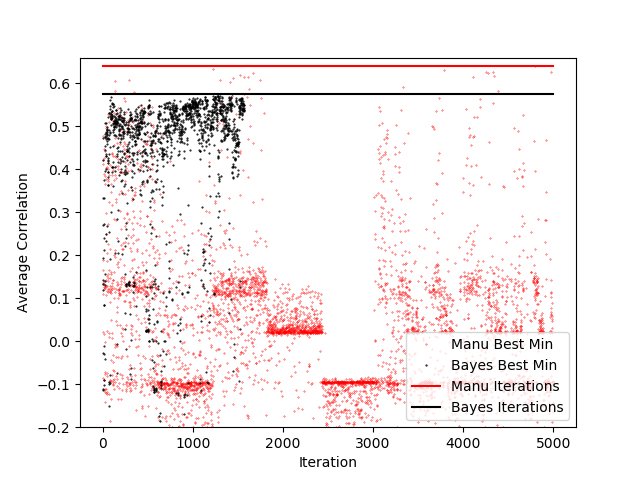
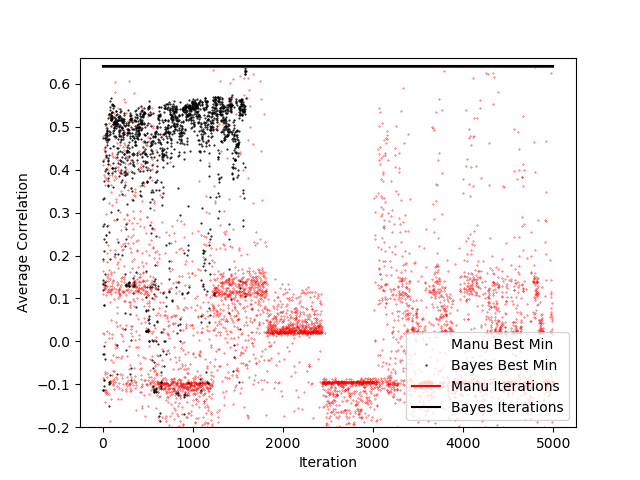
now flex bash for mean and min, and all experiments run!

diff --git a/per_script_optimization/db_fig_7_changed.py b/per_script_optimization/db_fig_7_changed.py
@@ -9,7 +9,10 @@ from ops.model_utils import iround
 from ops.parameter_defaults import PaperDefaults
 from ops.dumb_daemon_f7_hp_optim import optimize_model, create_stimuli
 import ops.model_cutils as cutils
+from sklearn.linear_model import RidgeCV
+from sklearn.preprocessing import StandardScaler
 
+reg_path = '/media/data_cifs/contextual_circuit/hmax_versions/dmely_hmax/models/ucircuits/contextual/working/ShevellMonnier2003.reg.pkl.std.srf3ssn9ssf29'
 
 def run(make_stims=False):
     defaults = PaperDefaults()
@@ -73,19 +76,38 @@ def run(make_stims=False):
     gt = np.vstack((shift_phase_paper,shift_anti_paper))
 
     #Also preload regs for postprocessing
-    regpath = os.path.join(defaults._WORKDIR,\
-        'ShevellMonnier2003.reg.pkl.std.srf%issn%issf%i' \
-            % (defaults._DEFAULT_PARAMETERS['srf'], defaults._DEFAULT_PARAMETERS['ssn'], defaults._DEFAULT_PARAMETERS['ssf']))
+    # regpath = os.path.join( #defaults._WORKDIR,\
+    #     'working\ShevellMonnier2003.reg.pkl.std.srf%issn%issf%i' \
+    #         % (defaults._DEFAULT_PARAMETERS['srf'], defaults._DEFAULT_PARAMETERS['ssn'], defaults._DEFAULT_PARAMETERS['ssf']))
+    joblib_stuff = {'reg_X_SX': RidgeCV(alphas=(0.1, 1.0, 10.0), cv=None, fit_intercept=True, gcv_mode=None, normalize=False, scoring=None, store_cv_values=False),
+                    'reg_Z_SX': RidgeCV(alphas=(0.1, 1.0, 10.0), cv=None, fit_intercept=True, gcv_mode=None, normalize=False, scoring=None, store_cv_values=False),
+                     'reg_Y_SO': RidgeCV(alphas=(0.1, 1.0, 10.0), cv=None, fit_intercept=True, gcv_mode=None, normalize=False, scoring=None, store_cv_values=False),
+                     'scaler_SO': StandardScaler(copy=True, with_mean=True, with_std=True),
+                     'reg_X_SO': RidgeCV(alphas=(0.1, 1.0, 10.0), cv=None, fit_intercept=True, gcv_mode=None,normalize=False, scoring=None, store_cv_values=False),
+                     'scaler_SX': StandardScaler(copy=True, with_mean=True, with_std=True),
+                     'reg_Y_SX': RidgeCV(alphas=(0.1, 1.0, 10.0), cv=None, fit_intercept=True, gcv_mode=None,normalize=False, scoring=None, store_cv_values=False),
+                     'reg_Z_SO': RidgeCV(alphas=(0.1, 1.0, 10.0), cv=None, fit_intercept=True, gcv_mode=None,normalize=False, scoring=None, store_cv_values=False)}
 
-    reg_X_SO = joblib.load(regpath)['reg_X_SO']
-    reg_Y_SO = joblib.load(regpath)['reg_Y_SO']
-    reg_Z_SO = joblib.load(regpath)['reg_Z_SO']
-    scaler_SO = joblib.load(regpath)['scaler_SO']
+    reg_X_SO = joblib_stuff['reg_X_SO']
+    reg_Y_SO = joblib_stuff['reg_Y_SO']
+    reg_Z_SO = joblib_stuff['reg_Z_SO']
+    scaler_SO = joblib_stuff['scaler_SO']
 
-    reg_X_SX = joblib.load(regpath)['reg_X_SX']
-    reg_Y_SX = joblib.load(regpath)['reg_Y_SX']
-    reg_Z_SX = joblib.load(regpath)['reg_Z_SX']
-    scaler_SX = joblib.load(regpath)['scaler_SX']
+    reg_X_SX = joblib_stuff['reg_X_SX']
+    reg_Y_SX = joblib_stuff['reg_Y_SX']
+    reg_Z_SX = joblib_stuff['reg_Z_SX']
+    scaler_SX = joblib_stuff['scaler_SX']
+
+    # import ipdb; ipdb.set_trace()
+    # reg_X_SO = joblib.load(regpath)['reg_X_SO']
+    # reg_Y_SO = joblib.load(regpath)['reg_Y_SO']
+    # reg_Z_SO = joblib.load(regpath)['reg_Z_SO']
+    # scaler_SO = joblib.load(regpath)['scaler_SO']
+    #
+    # reg_X_SX = joblib.load(regpath)['reg_X_SX']
+    # reg_Y_SX = joblib.load(regpath)['reg_Y_SX']
+    # reg_Z_SX = joblib.load(regpath)['reg_Z_SX']
+    # scaler_SX = joblib.load(regpath)['scaler_SX']
 
     so2image = cutils.get_XYZ2RGB_predictor(reg_X_SO, reg_Y_SO, reg_Z_SO, scaler_SO)
     sx2image = cutils.get_XYZ2RGB_predictor(reg_X_SX, reg_Y_SX, reg_Z_SX, scaler_SX)

diff --git a/ops/dumb_daemon_f7_hp_optim.py b/ops/dumb_daemon_f7_hp_optim.py
@@ -13,11 +13,11 @@ from skimage.color import rgb2xyz
 from ops.db_utils import update_data, get_lesion_rows_from_db, count_sets
 from ops.parameter_defaults import PaperDefaults
 
-
 defaults = PaperDefaults().__dict__
 CIECAM02_CAT = sp.array([[ 0.7328,  0.4296, -0.1624],
                          [-0.7036,  1.6975,  0.0061],
                          [ 0.003 ,  0.0136,  0.9834]])
+max_its = int(sys.argv[2])
 
 def adjust_parameters(defaults,hps):
     hps_keys = hps.keys()
@@ -78,9 +78,9 @@ def printProgress(iteration, total, prefix = '', suffix = '', decimals = 1, bar_
 
 
 def compute_shifts(x, sess, ctx, extra_vars, default_parameters):
-    start = timer()
+    #start = timer()
     sess.run(tf.group(tf.global_variables_initializer(), tf.local_variables_initializer()))  # depreciated
-    # tf.group(tf.global_variables_initializer()) 
+    # tf.group(tf.global_variables_initializer())
     feed_dict = {ctx.X:x,
     #ctx.xi:default_parameters._DEFAULT_PARAMETERS['xi'].reshape(-1,1),
     ctx.alpha:default_parameters._DEFAULT_PARAMETERS['alpha'].reshape(-1,1),
@@ -102,9 +102,9 @@ def compute_shifts(x, sess, ctx, extra_vars, default_parameters):
         y = sess.run(ctx.out_I,feed_dict=feed_dict)
     elif extra_vars['return_var'] == 'O':
         y = sess.run(ctx.out_O,feed_dict=feed_dict)
-    end = timer()
-    run_time = end - start    
-    return y,run_time
+    #end = timer()
+    #run_time = end - start
+    return y#,run_time
 
 
 def prepare_hps(parameters,hp_set):
@@ -168,7 +168,8 @@ def optimize_model(gt,extra_vars,parameters):
             idx = 0; #keep a count
             #Initialize the session
             with tf.Session(config=tf.ConfigProto(allow_soft_placement = True)) as sess:
-                while 1: #while we have hp to run on this lesion
+                while idx < max_its: #while we have hp to run on this lesion
+                    start = timer()
                     hp_set = get_lesion_rows_from_db(lesion,extra_vars['figure_name'],get_one=True)
                     if hp_set is None:
                         break
@@ -187,7 +188,7 @@ def optimize_model(gt,extra_vars,parameters):
                                         ctx.run(x) #builds tf graph with shape of x
                                 build_graph = False
 
-                            y, run_time = compute_shifts(x=x, sess=sess, ctx=ctx, 
+                            y = compute_shifts(x=x, sess=sess, ctx=ctx,
                                  extra_vars=extra_vars, default_parameters=random_parameters)
 
                             phase,anti = model_utils.data_postprocessing(x,y,extra_vars)
@@ -200,9 +201,10 @@ def optimize_model(gt,extra_vars,parameters):
 
                         #Add to database
                         update_data(random_parameters,extra_vars['figure_name'],hp_set['_id'],it_score)
-                        printProgress(idx, num_sets, 
-                            prefix = extra_vars['figure_name'] + ' progress on lesion ' + lesion + ':', 
-                            suffix = 'Iteration time: ' + str(np.around(run_time,2)) + '; Correlation: ' + str(np.around(it_score,2)), 
+                        end = timer()
+                        printProgress(idx, num_sets,
+                            prefix = extra_vars['figure_name'] + ' progress on lesion ' + lesion + ':',
+                            suffix = 'Iteration time: ' + str(np.around(end-start,2)) + '; Correlation: ' + str(np.around(it_score,2)) + '\n',
                             bar_length = 30)
                     if parameters.gaussian_spatial or parameters.gaussian_channel:
                         break

diff --git a/start_opt_mean.py b/start_opt_mean.py
@@ -6,16 +6,16 @@ from ops.db_utils import add_row_to_db, gather_parameter_data, gather_perf_data
 import GPyOpt
 from timeit import default_timer as timer
 
-opt_samp = int(sys.argv[1])
-opt_type = sys.argv[2]
-opt_max = sys.argv[3]
+opt_samp = int(sys.argv[2])
+opt_type = sys.argv[3]
+opt_max = sys.argv[4]
 
 #Import default parameters
 defaults = PaperDefaults()
 
-def gpy_wrapper(X,Y,domain):
-    opt_me = GPyOpt.methods.BayesianOptimization(f = None, X = X, Y = Y, domain = domain, evaluator_type = 'local_penalization')
-    next_samp = opt_me.suggested_sample[0].tolist()
+def gpy_wrapper(X,Y,domain,samps):
+    opt_me = GPyOpt.methods.BayesianOptimization(f = None, X = X, Y = Y, domain = domain, evaluator_type = 'local_penalization', batch_size = samps, num_cores = samps)
+    next_samp = opt_me.suggested_sample
     return next_samp
 
 # Collect history from DB
@@ -34,14 +34,19 @@ if flat_perf[-1] <= np.min(flat_perf):
 #Generate the next sample
 start = timer()
 if opt_type == 'gpyopt':
-    next_samp = gpy_wrapper(hist,perf,defaults._DEFAULT_DOMAINS)
+    next_samp = gpy_wrapper(hist,perf,defaults._DEFAULT_DOMAINS,opt_samp)
 else:
     print 'Not implemented yet'
-end = timer()
 
 #Update db and print status
 opt_list = ['alpha', 'beta', 'mu', 'nu', 'gamma', 'delta']
-hp_set = dict(zip(opt_list,next_samp))
-hp_set['_id'] = len(hist)+1
-add_row_to_db(hp_set,opt_list)
+samp_lists = [];
+id_var = len(hist);
+for i in range(opt_samp):
+    hp_set = dict(zip(opt_list,next_samp[i].tolist()))
+    id_var += 1
+    hp_set['_id'] = id_var
+    add_row_to_db(hp_set,opt_list)
+end = timer()
+
 print '\n\nParameter combo #' + str(len(hist)+1) + ' inserted into db. This took ' + str(np.around(end-start, 2)) +' seconds.\n\n'

diff --git a/ops/dumb_daemon_db_hp_optim.py b/ops/dumb_daemon_db_hp_optim.py
@@ -193,7 +193,7 @@ def optimize_model(im,gt,extra_vars,parameters):
                         ' progress on lesion ' + lesion + ':',
                         suffix='Iteration time: ' +
                         str(np.around(end-start, 2)) +
-                        '; Correlation: ' + str(np.around(it_score, 5)),
+                        '; Correlation: ' + str(np.around(it_score, 5)) +'\n',
                         bar_length=30)
                     if parameters.gaussian_spatial or parameters.gaussian_channel:
                         break

diff --git a/ops/db_utils.py b/ops/db_utils.py
@@ -125,7 +125,7 @@ def gather_parameter_data(lesion,table_name=defaults.table_name):
 
 def gather_perf_data(lesion,table_name=defaults.table_name):
     conn,cur = open_db(use_dict=True)
-    cur.execute("SELECT f3a,f3b,f4,f5,tbp,tbtcso,bw FROM %s WHERE lesions='%s'" % (table_name, lesion))
+    cur.execute("SELECT f3a,f3b,f4,f5,f7,tbp,tbtcso,bw FROM %s WHERE lesions='%s'" % (table_name, lesion))
     output = cur.fetchall()
     close_db(cur,conn)
     return output

diff --git a/ops/model_utils.py b/ops/model_utils.py
@@ -1087,7 +1087,6 @@ def data_postprocessing(x,y,extra_vars):
         gt_test_lab = model_cutils.xyz2lab(gt_test_XYZ.reshape((1, 1, 3))).squeeze()
 
         # get decoded XYZ and L*a*b* coordinates
-        import ipdb;ipdb.set_trace()
         sx_test_lab = extra_vars['sx2image'](y.transpose(0,3,1,2), out='lab')[:, extra_vars['size']//2, extra_vars['size']//2, :]
 
         # shifts in various color spaces
